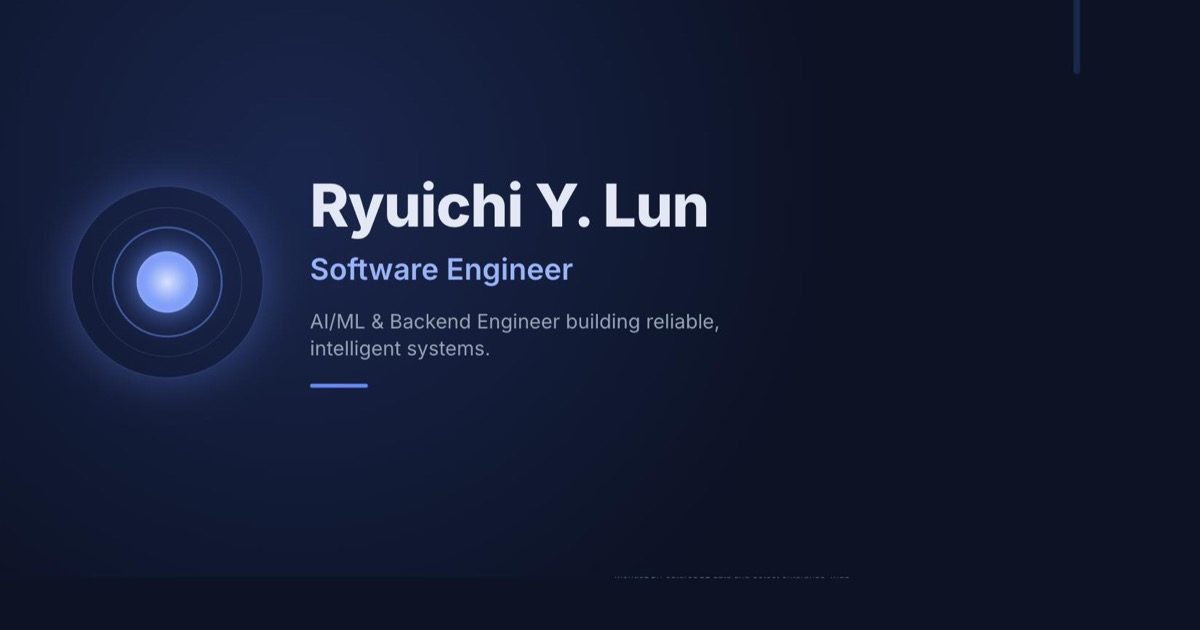
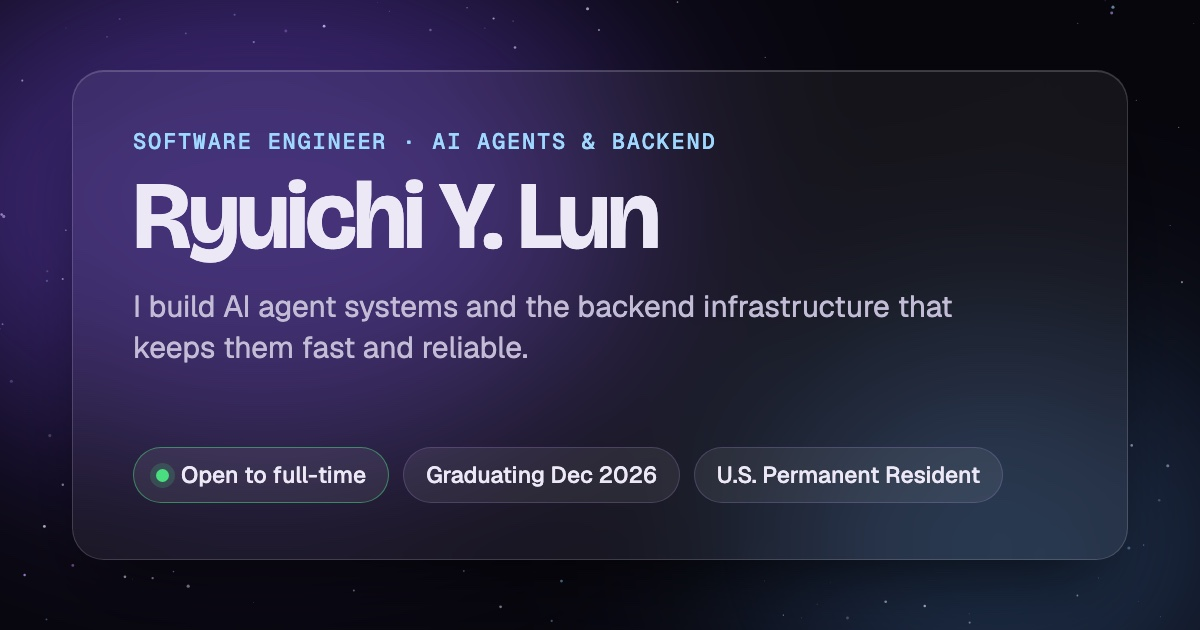
New link-preview image and text in the space theme

diff --git a/public/index.html b/public/index.html
@@ -13,18 +13,21 @@
 
     <!-- Open Graph / social link previews -->
     <meta property="og:type" content="website" />
-    <meta property="og:title" content="Ryuichi Y. Lun — Software Engineer" />
+    <meta property="og:title" content="Ryuichi Y. Lun · Software Engineer" />
     <meta
       property="og:description"
-      content="AI/ML & Backend Engineer. USC M.S. CS candidate and first-author researcher building reliable, intelligent systems."
+      content="Software engineer building AI agent systems and backend infrastructure. USC M.S. CS, Dec 2026. Open to full-time roles, U.S. Permanent Resident."
     />
     <meta property="og:url" content="https://Ryuichi-Yamafuji-Lun.github.io/Portfolio/" />
     <meta property="og:image" content="https://Ryuichi-Yamafuji-Lun.github.io/Portfolio/og-image.jpg" />
+    <meta property="og:image:width" content="1200" />
+    <meta property="og:image:height" content="630" />
+    <meta property="og:image:alt" content="Ryuichi Y. Lun, Software Engineer. Open to full-time, graduating Dec 2026, U.S. Permanent Resident." />
     <meta name="twitter:card" content="summary_large_image" />
-    <meta name="twitter:title" content="Ryuichi Y. Lun — Software Engineer" />
+    <meta name="twitter:title" content="Ryuichi Y. Lun · Software Engineer" />
     <meta
       name="twitter:description"
-      content="AI/ML & Backend Engineer. USC M.S. CS candidate and first-author researcher building reliable, intelligent systems."
+      content="Software engineer building AI agent systems and backend infrastructure. USC M.S. CS, Dec 2026. Open to full-time roles, U.S. Permanent Resident."
     />
     <meta name="twitter:image" content="https://Ryuichi-Yamafuji-Lun.github.io/Portfolio/og-image.jpg" />
 
